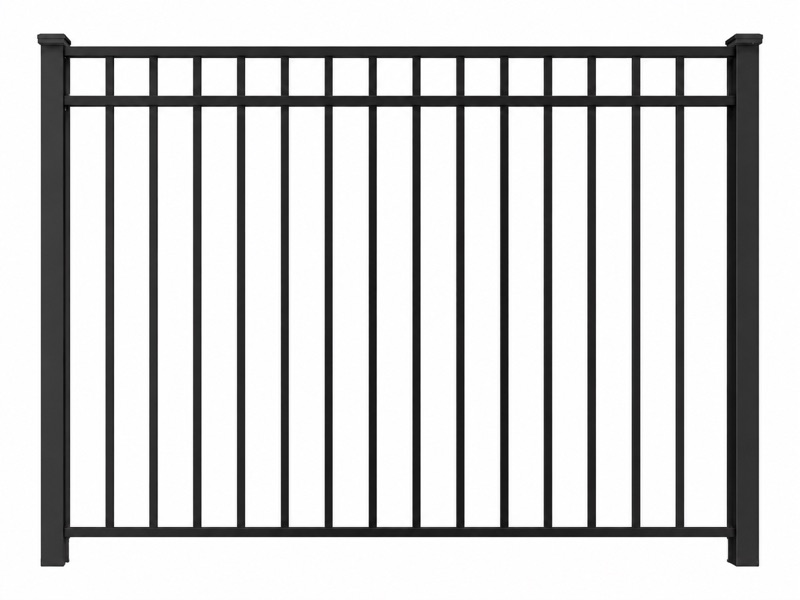
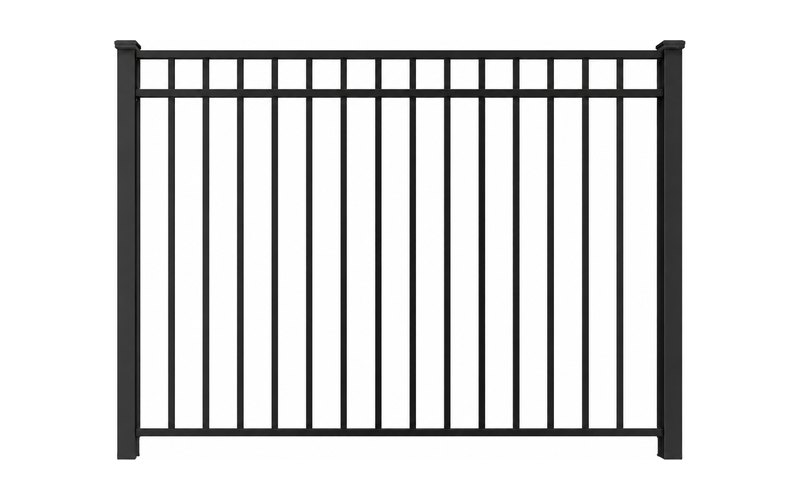
Normalize profile render sizes across all material cards
Trimmed each source render's white margins and re-centered on a
uniform 16:10 canvas so every fence occupies the same visual area —
Puppy Picket and friends no longer look bigger than the rest.

diff --git a/chain-link.html b/chain-link.html
@@ -8,7 +8,7 @@
 <meta http-equiv="Pragma" content="no-cache" />
 <meta http-equiv="Expires" content="0" />
 <title>Chain Link Fence · Western Fence Supply, Design Preview</title>
-<link rel="stylesheet" href="styles.css?v=208" />
+<link rel="stylesheet" href="styles.css?v=209" />
 </head>
 <body>
 <div id="root"></div>
@@ -17,13 +17,13 @@
 <script src="https://unpkg.com/react-dom@18.3.1/umd/react-dom.development.js" integrity="sha384-u6aeetuaXnQ38mYT8rp6sbXaQe3NL9t+IBXmnYxwkUI2Hw4bsp2Wvmx4yRQF1uAm" crossorigin="anonymous"></script>
 <script src="https://unpkg.com/@babel/standalone@7.29.0/babel.min.js" integrity="sha384-m08KidiNqLdpJqLq95G/LEi8Qvjl/xUYll3QILypMoQ65QorJ9Lvtp2RXYGBFj1y" crossorigin="anonymous"></script>
 
-<script type="text/babel" src="components/shared.jsx?v=208"></script>
-<script type="text/babel" src="components/site-header.jsx?v=208"></script>
-<script type="text/babel" src="components/page-blocks.jsx?v=208"></script>
-<script type="text/babel" src="components/products.jsx?v=208"></script>
-<script type="text/babel" src="components/sections.jsx?v=208"></script>
-<script type="text/babel" src="components/extras.jsx?v=208"></script>
-<script type="text/babel" src="components/page-material.jsx?v=208"></script>
+<script type="text/babel" src="components/shared.jsx?v=209"></script>
+<script type="text/babel" src="components/site-header.jsx?v=209"></script>
+<script type="text/babel" src="components/page-blocks.jsx?v=209"></script>
+<script type="text/babel" src="components/products.jsx?v=209"></script>
+<script type="text/babel" src="components/sections.jsx?v=209"></script>
+<script type="text/babel" src="components/extras.jsx?v=209"></script>
+<script type="text/babel" src="components/page-material.jsx?v=209"></script>
 
 <script type="text/babel">
 ReactDOM.createRoot(document.getElementById('root')).render(<MaterialPage slug="chainlink" />);

diff --git a/aluminum.html b/aluminum.html
@@ -8,7 +8,7 @@
 <meta http-equiv="Pragma" content="no-cache" />
 <meta http-equiv="Expires" content="0" />
 <title>Aluminum Fence · Western Fence Supply, Design Preview</title>
-<link rel="stylesheet" href="styles.css?v=207" />
+<link rel="stylesheet" href="styles.css?v=208" />
 </head>
 <body>
 <div id="root"></div>
@@ -17,13 +17,13 @@
 <script src="https://unpkg.com/react-dom@18.3.1/umd/react-dom.development.js" integrity="sha384-u6aeetuaXnQ38mYT8rp6sbXaQe3NL9t+IBXmnYxwkUI2Hw4bsp2Wvmx4yRQF1uAm" crossorigin="anonymous"></script>
 <script src="https://unpkg.com/@babel/standalone@7.29.0/babel.min.js" integrity="sha384-m08KidiNqLdpJqLq95G/LEi8Qvjl/xUYll3QILypMoQ65QorJ9Lvtp2RXYGBFj1y" crossorigin="anonymous"></script>
 
-<script type="text/babel" src="components/shared.jsx?v=207"></script>
-<script type="text/babel" src="components/site-header.jsx?v=207"></script>
-<script type="text/babel" src="components/page-blocks.jsx?v=207"></script>
-<script type="text/babel" src="components/products.jsx?v=207"></script>
-<script type="text/babel" src="components/sections.jsx?v=207"></script>
-<script type="text/babel" src="components/extras.jsx?v=207"></script>
-<script type="text/babel" src="components/page-material.jsx?v=207"></script>
+<script type="text/babel" src="components/shared.jsx?v=208"></script>
+<script type="text/babel" src="components/site-header.jsx?v=208"></script>
+<script type="text/babel" src="components/page-blocks.jsx?v=208"></script>
+<script type="text/babel" src="components/products.jsx?v=208"></script>
+<script type="text/babel" src="components/sections.jsx?v=208"></script>
+<script type="text/babel" src="components/extras.jsx?v=208"></script>
+<script type="text/babel" src="components/page-material.jsx?v=208"></script>
 
 <script type="text/babel">
 ReactDOM.createRoot(document.getElementById('root')).render(<MaterialPage slug="aluminum" />);

diff --git a/metal.html b/metal.html
@@ -8,7 +8,7 @@
 <meta http-equiv="Pragma" content="no-cache" />
 <meta http-equiv="Expires" content="0" />
 <title>Metal / DuraFence · Western Fence Supply, Design Preview</title>
-<link rel="stylesheet" href="styles.css?v=209" />
+<link rel="stylesheet" href="styles.css?v=210" />
 </head>
 <body>
 <div id="root"></div>
@@ -17,13 +17,13 @@
 <script src="https://unpkg.com/react-dom@18.3.1/umd/react-dom.development.js" integrity="sha384-u6aeetuaXnQ38mYT8rp6sbXaQe3NL9t+IBXmnYxwkUI2Hw4bsp2Wvmx4yRQF1uAm" crossorigin="anonymous"></script>
 <script src="https://unpkg.com/@babel/standalone@7.29.0/babel.min.js" integrity="sha384-m08KidiNqLdpJqLq95G/LEi8Qvjl/xUYll3QILypMoQ65QorJ9Lvtp2RXYGBFj1y" crossorigin="anonymous"></script>
 
-<script type="text/babel" src="components/shared.jsx?v=209"></script>
-<script type="text/babel" src="components/site-header.jsx?v=209"></script>
-<script type="text/babel" src="components/page-blocks.jsx?v=209"></script>
-<script type="text/babel" src="components/products.jsx?v=209"></script>
-<script type="text/babel" src="components/sections.jsx?v=209"></script>
-<script type="text/babel" src="components/extras.jsx?v=209"></script>
-<script type="text/babel" src="components/page-material.jsx?v=209"></script>
+<script type="text/babel" src="components/shared.jsx?v=210"></script>
+<script type="text/babel" src="components/site-header.jsx?v=210"></script>
+<script type="text/babel" src="components/page-blocks.jsx?v=210"></script>
+<script type="text/babel" src="components/products.jsx?v=210"></script>
+<script type="text/babel" src="components/sections.jsx?v=210"></script>
+<script type="text/babel" src="components/extras.jsx?v=210"></script>
+<script type="text/babel" src="components/page-material.jsx?v=210"></script>
 
 <script type="text/babel">
 ReactDOM.createRoot(document.getElementById('root')).render(<MaterialPage slug="metal" />);

diff --git a/vinyl.html b/vinyl.html
@@ -8,7 +8,7 @@
 <meta http-equiv="Pragma" content="no-cache" />
 <meta http-equiv="Expires" content="0" />
 <title>Vinyl / PVC Fence · Western Fence Supply, Design Preview</title>
-<link rel="stylesheet" href="styles.css?v=207" />
+<link rel="stylesheet" href="styles.css?v=208" />
 </head>
 <body>
 <div id="root"></div>
@@ -17,13 +17,13 @@
 <script src="https://unpkg.com/react-dom@18.3.1/umd/react-dom.development.js" integrity="sha384-u6aeetuaXnQ38mYT8rp6sbXaQe3NL9t+IBXmnYxwkUI2Hw4bsp2Wvmx4yRQF1uAm" crossorigin="anonymous"></script>
 <script src="https://unpkg.com/@babel/standalone@7.29.0/babel.min.js" integrity="sha384-m08KidiNqLdpJqLq95G/LEi8Qvjl/xUYll3QILypMoQ65QorJ9Lvtp2RXYGBFj1y" crossorigin="anonymous"></script>
 
-<script type="text/babel" src="components/shared.jsx?v=207"></script>
-<script type="text/babel" src="components/site-header.jsx?v=207"></script>
-<script type="text/babel" src="components/page-blocks.jsx?v=207"></script>
-<script type="text/babel" src="components/products.jsx?v=207"></script>
-<script type="text/babel" src="components/sections.jsx?v=207"></script>
-<script type="text/babel" src="components/extras.jsx?v=207"></script>
-<script type="text/babel" src="components/page-material.jsx?v=207"></script>
+<script type="text/babel" src="components/shared.jsx?v=208"></script>
+<script type="text/babel" src="components/site-header.jsx?v=208"></script>
+<script type="text/babel" src="components/page-blocks.jsx?v=208"></script>
+<script type="text/babel" src="components/products.jsx?v=208"></script>
+<script type="text/babel" src="components/sections.jsx?v=208"></script>
+<script type="text/babel" src="components/extras.jsx?v=208"></script>
+<script type="text/babel" src="components/page-material.jsx?v=208"></script>
 
 <script type="text/babel">
 ReactDOM.createRoot(document.getElementById('root')).render(<MaterialPage slug="vinyl" />);

diff --git a/ecfence.html b/ecfence.html
@@ -8,7 +8,7 @@
 <meta http-equiv="Pragma" content="no-cache" />
 <meta http-equiv="Expires" content="0" />
 <title>EC Fence · Western Fence Supply, Design Preview</title>
-<link rel="stylesheet" href="styles.css?v=207" />
+<link rel="stylesheet" href="styles.css?v=208" />
 </head>
 <body>
 <div id="root"></div>
@@ -17,13 +17,13 @@
 <script src="https://unpkg.com/react-dom@18.3.1/umd/react-dom.development.js" integrity="sha384-u6aeetuaXnQ38mYT8rp6sbXaQe3NL9t+IBXmnYxwkUI2Hw4bsp2Wvmx4yRQF1uAm" crossorigin="anonymous"></script>
 <script src="https://unpkg.com/@babel/standalone@7.29.0/babel.min.js" integrity="sha384-m08KidiNqLdpJqLq95G/LEi8Qvjl/xUYll3QILypMoQ65QorJ9Lvtp2RXYGBFj1y" crossorigin="anonymous"></script>
 
-<script type="text/babel" src="components/shared.jsx?v=207"></script>
-<script type="text/babel" src="components/site-header.jsx?v=207"></script>
-<script type="text/babel" src="components/page-blocks.jsx?v=207"></script>
-<script type="text/babel" src="components/products.jsx?v=207"></script>
-<script type="text/babel" src="components/sections.jsx?v=207"></script>
-<script type="text/babel" src="components/extras.jsx?v=207"></script>
-<script type="text/babel" src="components/page-material.jsx?v=207"></script>
+<script type="text/babel" src="components/shared.jsx?v=208"></script>
+<script type="text/babel" src="components/site-header.jsx?v=208"></script>
+<script type="text/babel" src="components/page-blocks.jsx?v=208"></script>
+<script type="text/babel" src="components/products.jsx?v=208"></script>
+<script type="text/babel" src="components/sections.jsx?v=208"></script>
+<script type="text/babel" src="components/extras.jsx?v=208"></script>
+<script type="text/babel" src="components/page-material.jsx?v=208"></script>
 
 <script type="text/babel">
 ReactDOM.createRoot(document.getElementById('root')).render(<MaterialPage slug="ecfence" />);
